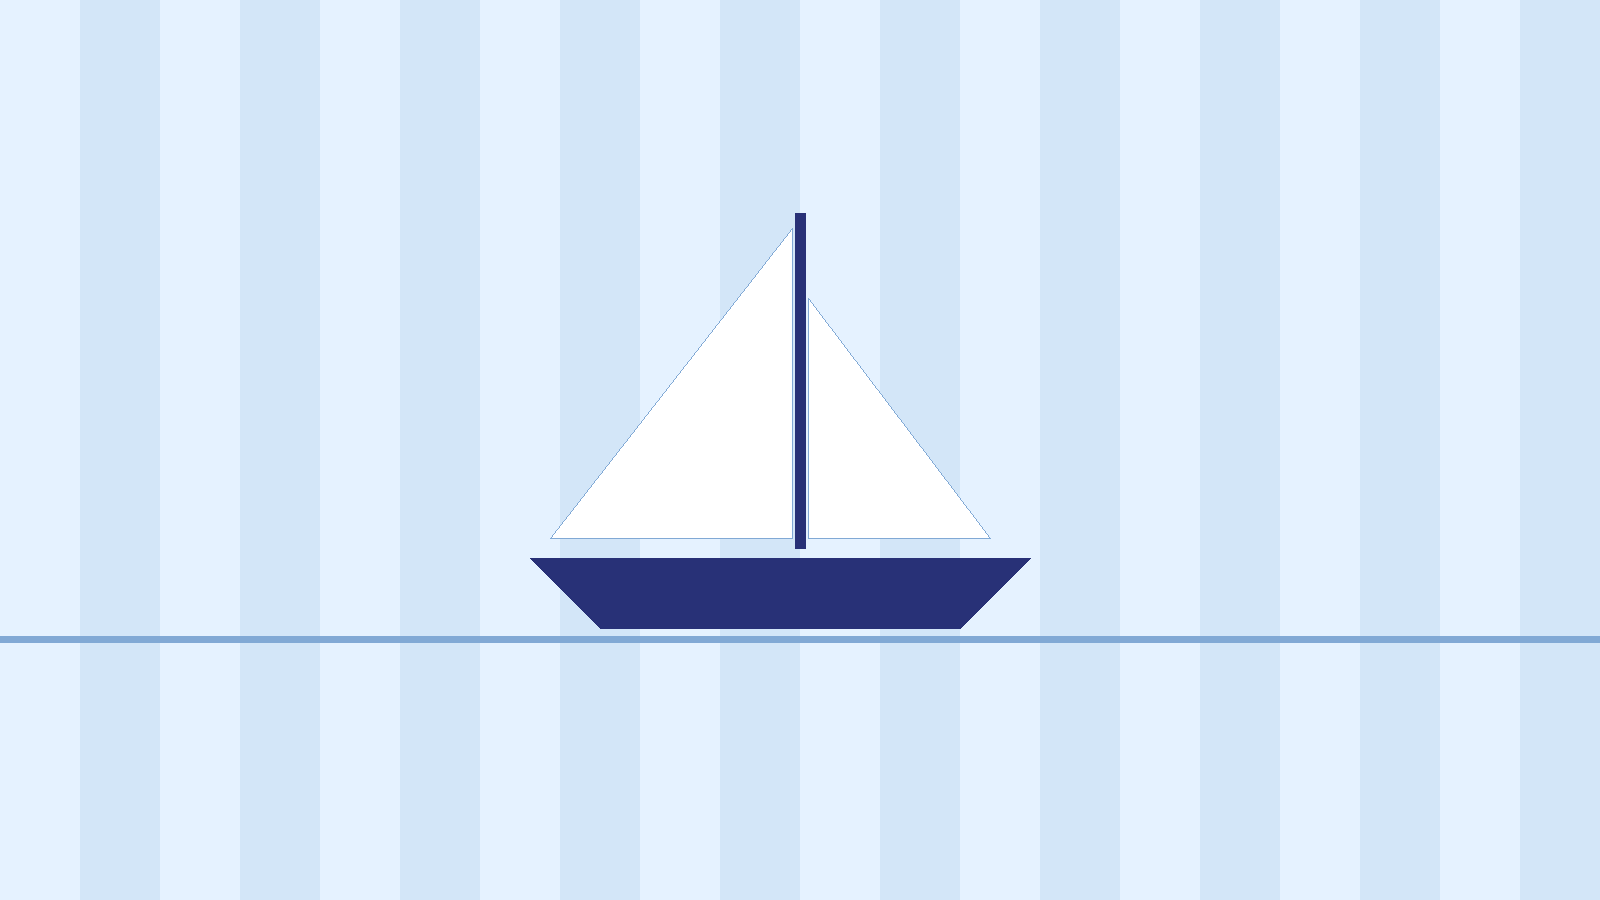
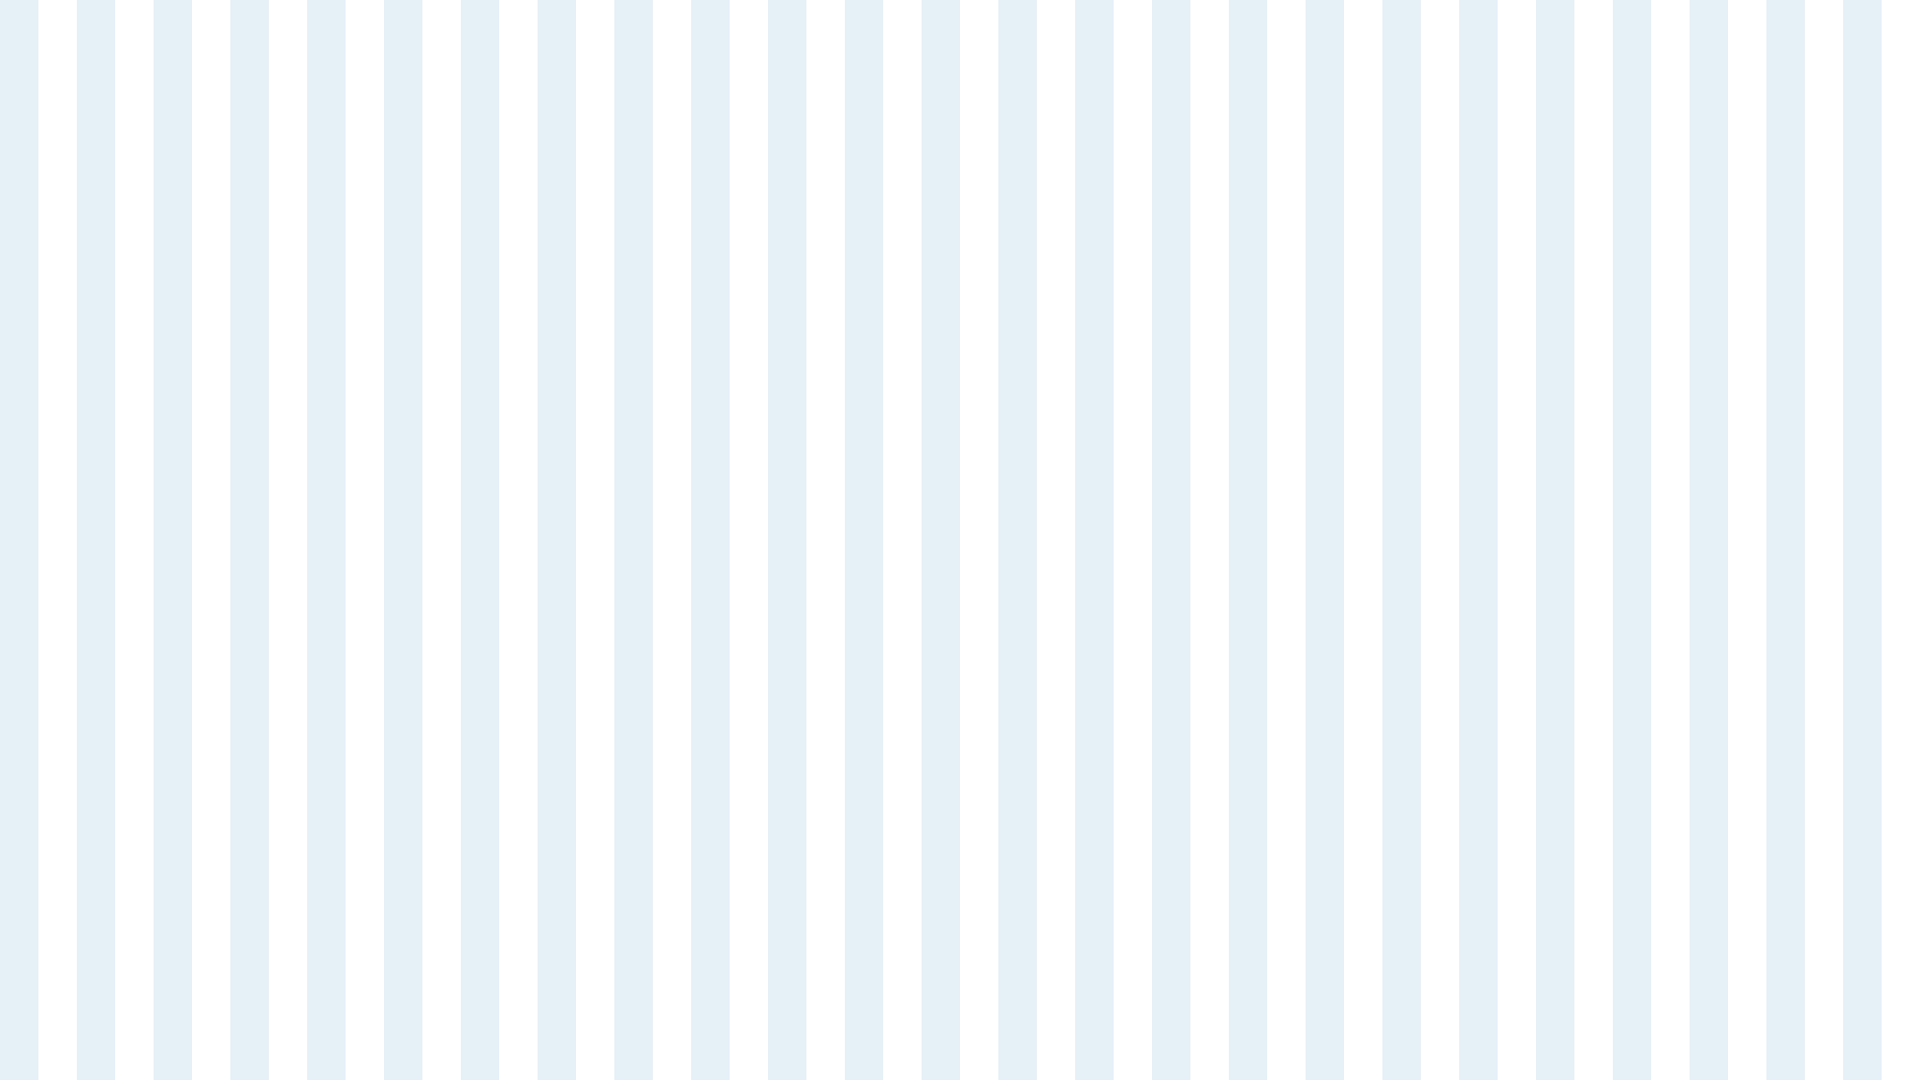
Nuevo fondo de página: rayas verticales azul claro/blanco (fondo.png) en toda la web y el login del panel

diff --git a/styles.css b/styles.css
@@ -27,6 +27,8 @@ body {
   font-weight: 300;
   color: var(--ink);
   background-color: var(--bg);
+  background-image: url("fondo.png");
+  background-repeat: repeat;
   line-height: 1.65;
 }
 
@@ -123,10 +125,8 @@ body {
   gap: 0.6rem;
   text-align: center;
   padding: 6rem 1.5rem 3rem;
-  background-image: linear-gradient(rgba(229, 242, 255, 0.25), rgba(229, 242, 255, 0.55)), url("fondo.png");
-  background-size: cover, cover;
-  background-position: center, center;
-  background-repeat: no-repeat;
+  background-image: linear-gradient(rgba(255, 255, 255, 0.62), rgba(229, 242, 255, 0.45)), url("fondo.png");
+  background-repeat: repeat;
 }
 
 .hero-date {

diff --git a/panel.html b/panel.html
@@ -25,7 +25,7 @@
       z-index: 200;
       display: grid;
       place-items: center;
-      background: #d8e9f7 url("fondo.png") center / cover no-repeat;
+      background: #e5f2ff url("fondo.png") repeat;
       padding: 1.5rem;
     }
     .gate form {
